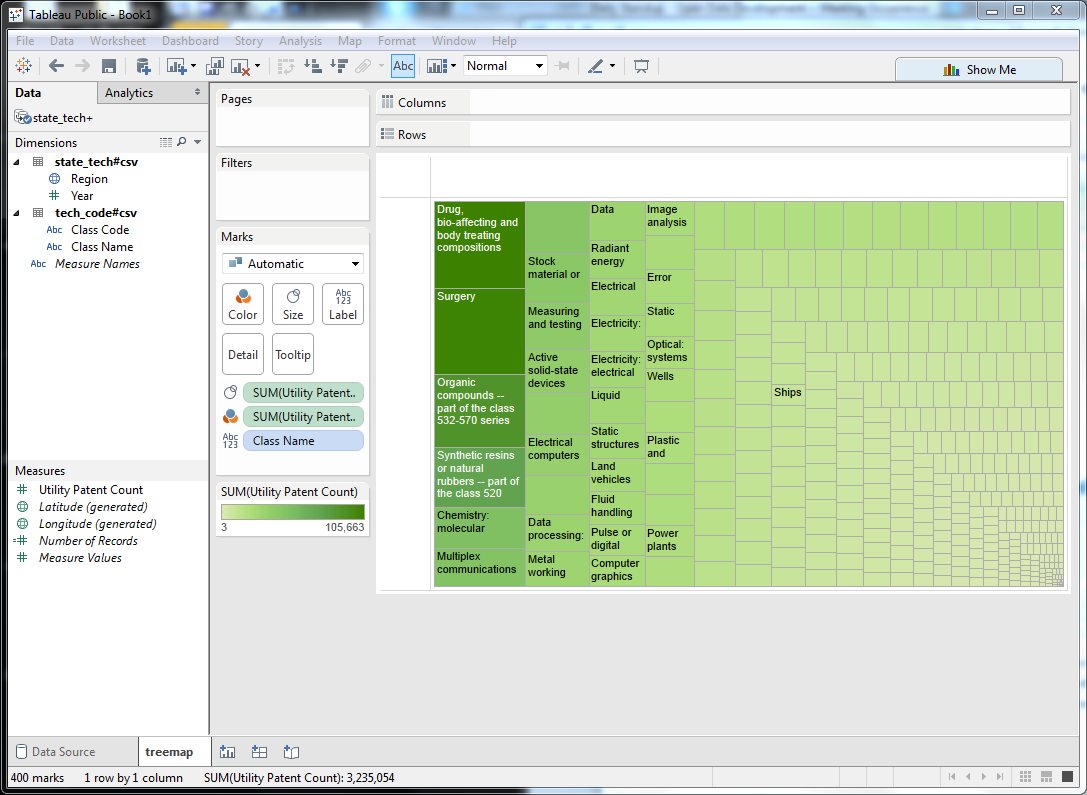
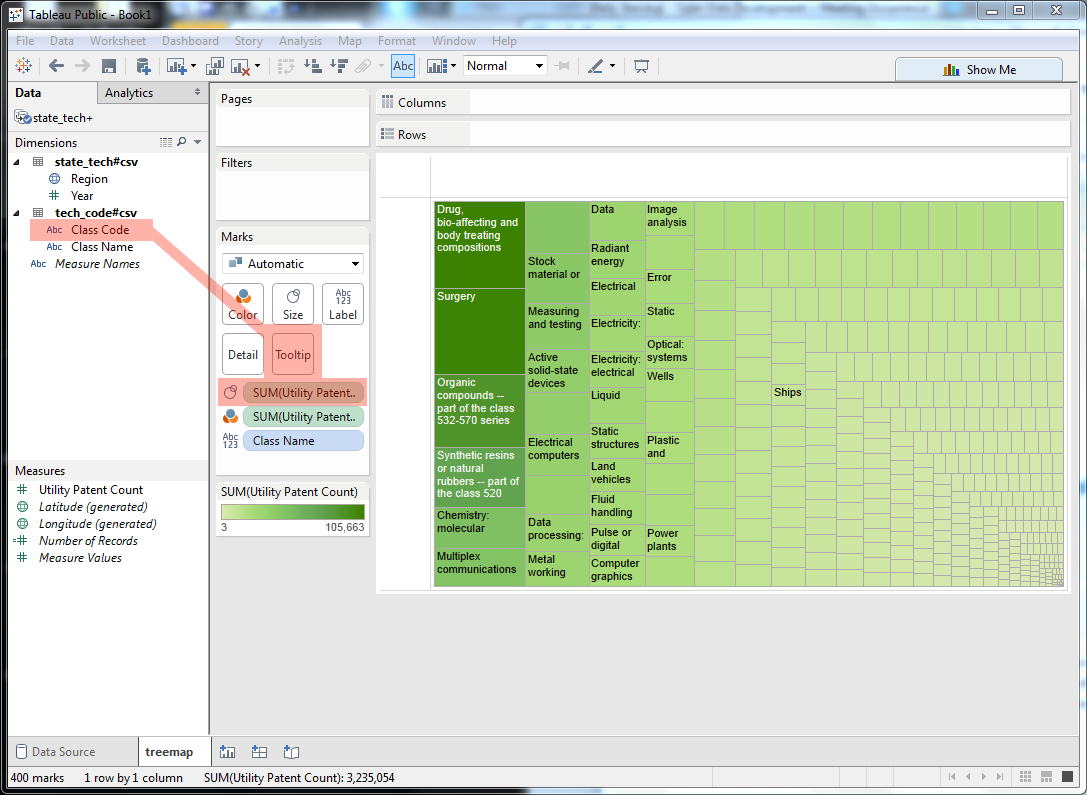
fix big tableau embed

Changed region(s): [[0.0304, 0.2717, 0.3643, 0.5132]]

diff --git a/tutorial_pto.html b/tutorial_pto.html
@@ -143,7 +143,7 @@ div#notebook {
 </style>
 
 <!-- Custom stylesheet, it must be in the same directory as the html file -->
-<!-- <link rel="stylesheet" href="custom.css"> -->
+<link rel="stylesheet" href="custom.css">
 
 <!-- Loading mathjax macro -->
 <!-- Load mathjax -->
@@ -542,6 +542,7 @@ div#notebook {
 <p>Now that we have our data in a clean, normalized format, let's make the visualization! We use <a href="https://public.tableau.com/s/">Tableau Public</a>, an interactive visualization platform that can publish to a public profile. Once it's published, you'll be able to browse and interact with your visualization on your Tableau Public profile web site, as well as embed that visualization in other web pages.
 First, install <a href="https://public.tableau.com/s/">Tableau Public</a>. Tableau requires an email to obtain the app. Once that's done, sign up for a free Tableau Public profile.
 Now let's load up Tableau Public.</p>
+<p>Below we show how to create the embedded visualizations with Tableau Public. We highlight points of interest in <font color='#feb2a8'>red</font> for clarity.</p>
 
 </div>
 </div>
@@ -570,7 +571,7 @@ Now let's load up Tableau Public.</p>
 </div>
 <div class="inner_cell">
 <div class="text_cell_render border-box-sizing rendered_html">
-<p>First, we need to connect to our data. Select ‘Text File’ on the left side of the screen, under ‘Connect.’ In the dialog box that opens, navigate to state_tech.csv file we just created and click Open.</p>
+<p>First, we need to connect to our data. <font color='#feb2a8'>Select ‘Text File’ on the left side of the screen</font>, under ‘Connect.’ In the dialog box that opens, navigate to state_tech.csv file we just created and click Open.</p>
 
 </div>
 </div>
@@ -599,7 +600,7 @@ Now let's load up Tableau Public.</p>
 </div>
 <div class="inner_cell">
 <div class="text_cell_render border-box-sizing rendered_html">
-<p>Here, we see that Tableau has linked to the state_tech.csv  file we generated. Our data sources for this visualization will be our state_tech.csv file joined to our tech_code.csv file (to supply the name for the technology class). On the left, Tableau lists available text files in the current working directory, and on the top, Tableau shows which sources are currently driving the visualization. So first, we need to join our state_tech.csv file onto our tech_code.csv file. Drag the tech_code.csv entry from the left section (under ‘Files’) onto the top section. Tableau’s Join dialog pops up:</p>
+<p>Here, we see that Tableau has linked to the state_tech.csv  file we generated. Our data sources for this visualization will be our state_tech.csv file joined to our tech_code.csv file (to supply the name for the technology class). On the left, Tableau lists available text files in the current working directory, and on the top, Tableau shows which sources are currently driving the visualization. So first, we need to join our state_tech.csv file onto our tech_code.csv file. <font color='#feb2a8'>Drag the tech_code.csv entry from the left section (under ‘Files’) onto the top section</font>. Tableau’s Join dialog pops up:</p>
 
 </div>
 </div>
@@ -619,7 +620,7 @@ Now let's load up Tableau Public.</p>
 </div>
 <div class="inner_cell">
 <div class="text_cell_render border-box-sizing rendered_html">
-<p>In this case, we want a Left Join, using the ‘Tech Class Code’ field in state_tech.csv and the ‘Class Code’ field in tech_code.csv. At first, this won’t work. Tableau supports some extract and load functionality, and will try to infer the data types of the loaded columns. In this case, Tableau infers that the ‘Class Code’ field in tech_code.csv is a text field, whereas the ‘Tech Class Code’ is a numeric field, which prevents our Join. In fact, there’s multiple changes we need to make. First, Tableau supports many Geographical data types, so we’ll want to change Region to Geographic Role -&gt; State/Province. Next, change the data type of ‘Tech Class Code’ to String. (NOTE: To change data types, click the symbol above a given column header (such as ‘Abc’ or ‘#’)). Once the data types are consistent, the join should work. Click the ‘Automatically Update’ button to see the joined data.</p>
+<p>In this case, <font color='#feb2a8'>we want a Left Join</font>, using the ‘Tech Class Code’ field in state_tech.csv and the ‘Class Code’ field in tech_code.csv. At first, this won’t work. Tableau supports some extract and load functionality, and will try to infer the data types of the loaded columns. In this case, Tableau infers that the ‘Class Code’ field in tech_code.csv is a text field, whereas the ‘Tech Class Code’ is a numeric field, which prevents our Join. In fact, there’s multiple changes we need to make. First, Tableau supports many Geographical data types, so <font color='#feb2a8'>we’ll want to change Region to Geographic Role -> State/Province</font>. Next, <font color='#feb2a8'>change the data type of ‘Tech Class Code’ to String</font>. (NOTE: To change data types, click the symbol above a given column header (such as ‘Abc’ or ‘#’)). Once the data types are consistent, the join should work. Click the ‘Automatically Update’ button to see the joined data.</p>
 
 </div>
 </div>
@@ -639,7 +640,7 @@ Now let's load up Tableau Public.</p>
 </div>
 <div class="inner_cell">
 <div class="text_cell_render border-box-sizing rendered_html">
-<p>Looking good! Just one more fix: We currently have two columns for class code, but we only need one. Let’s hide the first one (the second column): mouseover the column header and click the arrow in the upper right corner of the header, then select Hide.</p>
+<p>Looking good! Just one more fix: We currently have two columns for class code, but we only need one. Let’s hide the first one (the second column): <font color='#feb2a8'>mouseover the column header and click the arrow in the upper right corner of the header</font>, then select Hide.</p>
 
 </div>
 </div>
@@ -659,7 +660,7 @@ Now let's load up Tableau Public.</p>
 </div>
 <div class="inner_cell">
 <div class="text_cell_render border-box-sizing rendered_html">
-<p>With that done, let’s start putting together our visualization. Select the orange button at the bottom of the page for Sheet 1. This brings us to the worksheet view for Sheet 1. Tableau uses worksheets to represent a single component of a dashboard, which may include many worksheets. For the purposes of this tutorial, we’re treating ‘dashboard’ as synonymous with ‘visualization.’</p>
+<p>With that done, let’s start putting together our visualization. <font color='#feb2a8'>Select the orange button at the bottom of the page for Sheet 1</font>. This brings us to the worksheet view for Sheet 1. Tableau uses worksheets to represent a single component of a dashboard, which may include many worksheets. For the purposes of this tutorial, we’re treating ‘dashboard’ as synonymous with ‘visualization.’</p>
 
 </div>
 </div>
@@ -679,8 +680,8 @@ Now let's load up Tableau Public.</p>
 </div>
 <div class="inner_cell">
 <div class="text_cell_render border-box-sizing rendered_html">
-<p>First things first, let’s rename ‘Sheet 1’ to ‘treemap.’ Our visualization will consist of this worksheet as well as an additional worksheet for the bar graph. Now let’s take a look at the screen. On the left side, we find our column names (as well as some extra fields in italics, which for the purposes of this tutorial we can ignore) organized into two different categories: Dimensions and Measures. Put simply, a dimension is a field that identifies a piece of data, whereas a measure is a field that tells us, quantitatively, something about that data. So, ‘Region Name’ identifies a row of data as referring to a given region (such as Alabama), whereas ‘Utility Patent Count’ gives us a quantitative value for that row of data. Tableau will attempt to infer which fields are dimensions and which are measures, but sometimes it requires some adjusting. In this case, Tableau correctly identifies the ‘Region’, ‘Year’, ‘Class Code’ and ‘Class Name’ as dimensions, and ‘Utility Patent Count’ as our only measure. That is, ‘Region’, ‘Year’, ‘Class Code’ and ‘Class Name’ identify the scope of a particular row of data (or, in the case of Class Name, provide additional data on another dimension), and ‘Utility Patent Count’ represents a value for that scope.</p>
-<p>Let’s make our treemap. First, drag ‘Class Code’ from the Dimensions section to the ‘Columns’ row at the top of the screen. Then, drag ‘Utility Patent Count’ from the Measures section to the ‘Rows’ row at the top of the screen. This will generate a bar graph, with a column for each class name that has at least one utility patent, and the corresponding bars are aggregated from the Utility Patent Count value for a given class across all states and years.</p>
+<p>First things first, let’s <font color='#feb2a8'>rename ‘Sheet 1’ to ‘treemap’</font>. Our visualization will consist of this worksheet as well as an additional worksheet for the bar graph. Now let’s take a look at the screen. On the left side, we find our column names (as well as some extra fields in italics, which for the purposes of this tutorial we can ignore) organized into two different categories: Dimensions and Measures. Put simply, a dimension is a field that identifies a piece of data, whereas a measure is a field that tells us, quantitatively, something about that data. So, ‘Region Name’ identifies a row of data as referring to a given region (such as Alabama), whereas ‘Utility Patent Count’ gives us a quantitative value for that row of data. Tableau will attempt to infer which fields are dimensions and which are measures, but sometimes it requires some adjusting. In this case, Tableau correctly identifies the ‘Region’, ‘Year’, ‘Class Code’ and ‘Class Name’ as dimensions, and ‘Utility Patent Count’ as our only measure. That is, ‘Region’, ‘Year’, ‘Class Code’ and ‘Class Name’ identify the scope of a particular row of data (or, in the case of Class Name, provide additional data on another dimension), and ‘Utility Patent Count’ represents a value for that scope.</p>
+<p>Let’s make our treemap. First, <font color='#feb2a8'>drag ‘Class Name’ from the Dimensions section to the ‘Columns’ row</font> at the top of the screen. Then, <font color='#feb2a8'>drag ‘Utility Patent Count’ from the Measures section to the ‘Rows’ row</font> at the top of the screen. This will generate a bar graph, with a column for each class name that has at least one utility patent, and the corresponding bars are aggregated from the Utility Patent Count value for a given class across all states and years.</p>
 
 </div>
 </div>
@@ -700,7 +701,7 @@ Now let's load up Tableau Public.</p>
 </div>
 <div class="inner_cell">
 <div class="text_cell_render border-box-sizing rendered_html">
-<p>But we want a treemap, not a bar graph. The answer is the Show Me menu on the right. Tableau supports switching between multiple different styles of graph with a single click, as long as the number of dimensions and measures involved are compatible. In the Show Me menu, click the TreeMap square (fourth from the top, on the left).</p>
+<p>But we want a treemap, not a bar graph. The answer is the Show Me menu on the right. Tableau supports switching between multiple different styles of graph with a single click, as long as the number of dimensions and measures involved are compatible. In the Show Me menu, <font color='#feb2a8'>click the TreeMap square</font> (fourth from the top, on the left).</p>
 
 </div>
 </div>
@@ -721,7 +722,7 @@ Now let's load up Tableau Public.</p>
 <div class="inner_cell">
 <div class="text_cell_render border-box-sizing rendered_html">
 <p>Presto! Tableau moved the Utility Patent Count and Class Name pills from the Columns and Rows rows at the top to the left under Marks. In this case, we could have built the treemap by configuring these items ourselves, but the Show Me menu offers a convenient shortcut.</p>
-<p>One last thing: Tableau creates a default tooltip using the measures and dimensions involved in the worksheet, but we want to show two additional data items: The class code and the ratio of the patents for a technology class for the total. First, drag the Class Code pill onto the Tooltip square (in the Marks section). Mouseover a square in the treemap and observe that the class code was added. Next, right-click the first Utility Patent Counts pill in the Marks section (with two colorless squares to its right) and select Quick Table Calculation -&gt; Percent of Total. The tooltip now includes the class code and percent of total for a given square. To re-order the tooltip rows to match the original visualization, click the Tooltip square in the Marks section and adjust manually.</p>
+<p>One last thing: Tableau creates a default tooltip using the measures and dimensions involved in the worksheet, but we want to show two additional data items: The class code and the ratio of the patents for a technology class for the total. First, <font color='#feb2a8'>drag the Class Code pill onto the Tooltip square</font> (in the Marks section). Mouseover a square in the treemap and observe that the class code was added. Next, <font color='#feb2a8'>right-click the first Utility Patent Counts pill in the Marks section (with two colorless squares to its right) and select Quick Table Calculation -> Percent of Total</font>. The tooltip now includes the class code and percent of total for a given square. To re-order the tooltip rows to match the original visualization, click the Tooltip square in the Marks section and adjust manually.</p>
 
 </div>
 </div>
@@ -741,7 +742,7 @@ Now let's load up Tableau Public.</p>
 </div>
 <div class="inner_cell">
 <div class="text_cell_render border-box-sizing rendered_html">
-<p>Now let’s get started on the line graph. Click the button directly to the right of the treemap tab on the bottom of the page to create a new worksheet and rename it ‘line.’</p>
+<p>Now let’s get started on the line graph. <font color='#feb2a8'>Click the button directly to the right of the treemap tab on the bottom</font> of the page to create a new worksheet and rename it ‘line.’</p>
 
 </div>
 </div>
@@ -761,7 +762,7 @@ Now let's load up Tableau Public.</p>
 </div>
 <div class="inner_cell">
 <div class="text_cell_render border-box-sizing rendered_html">
-<p>For this graph, drag Year to Columns and Utility Patent Count to Rows. Finally, right-click the row header on the right of the graph (labeled ‘Utility Patent Count’), select ‘Add Reference Line’ and press OK. By default, this creates a reference line based on the Average of the Utility Patent Count measure, aggregated by sum for a given year. To have the line appear dashed instead of solid, we can right-click the reference line itself and select ‘Format.’ This opens the Format menu for the reference line on the left side of the screen. Open the ‘Line’ dropdown and select the dashed line. Finally, deselect the reference line by clicking an empty space within the line graph. Your graph should look like this:</p>
+<p>For this graph, <font color='#feb2a8'>drag Year to Columns and Utility Patent Count to Rows</font>. Finally, right-click the row header on the right of the graph (labeled ‘Utility Patent Count’), select ‘Add Reference Line’ and press OK. By default, this creates a reference line based on the Average of the Utility Patent Count measure, aggregated by sum for a given year. To have the line appear dashed instead of solid, we can right-click the reference line itself and select ‘Format.’ This opens the Format menu for the reference line on the left side of the screen. Open the ‘Line’ dropdown and select the dashed line. Finally, deselect the reference line by clicking an empty space within the line graph. Your graph should look like this:</p>
 
 </div>
 </div>
@@ -781,7 +782,7 @@ Now let's load up Tableau Public.</p>
 </div>
 <div class="inner_cell">
 <div class="text_cell_render border-box-sizing rendered_html">
-<p>Now we can start putting these components together into a complete visualization. Click the second button to the right of the line tab at the bottom of the page to create a new dashboard, and rename it ‘main.’</p>
+<p>Now we can start putting these components together into a complete visualization. <font color='#feb2a8'>Click the second button to the right of the line tab</font> at the bottom of the page to create a new dashboard, and rename it ‘main.’</p>
 
 </div>
 </div>
@@ -801,7 +802,7 @@ Now let's load up Tableau Public.</p>
 </div>
 <div class="inner_cell">
 <div class="text_cell_render border-box-sizing rendered_html">
-<p>On the top left, we see a Dashboard section, with a row for each worksheet we created. In the middle is the dashboard pane. Drag the treemap row onto the pane, then drag the line row below the treemap sheet. As you drag a component onto the pane, a gray box will show you how it will be oriented. You want the gray box to be below the treemap component, not to either side. Your dashboard should look like this:</p>
+<p>On the top left, we see a Dashboard section, with a row for each worksheet we created. In the middle is the dashboard pane. <font color='#feb2a8'>Drag the treemap row onto the pane, then drag the line row below the treemap sheet</font>. As you drag a component onto the pane, a gray box will show you how it will be oriented. You want the gray box to be below the treemap component, not to either side. Your dashboard should look like this:</p>
 
 </div>
 </div>
@@ -821,7 +822,7 @@ Now let's load up Tableau Public.</p>
 </div>
 <div class="inner_cell">
 <div class="text_cell_render border-box-sizing rendered_html">
-<p>Looks good, but we’re not done yet! We want to allow the user to filter based both on State and Year, but we’re currently showing aggregations for all values, regardless of State and Year. To accomplish this, let’s return to the treemap worksheet. First, let’s create the Year filter. Right-click the Year row in the Dimensions section and select ‘Show Filter.’ Tableau adds a filter control that defaults to the full range of years. If we wanted our dashboard to default to a particular range of years on load, or to exclude certain values in the final product, we can set these bounds to anything we like. Let’s leave it at the default.</p>
+<p>Looks good, but we’re not done yet! We want to allow the user to filter based both on State and Year, but we’re currently showing aggregations for all values, regardless of State and Year. To accomplish this, let’s <font color='#feb2a8'>return to the treemap worksheet</font>. First, let’s create the Year filter. <font color='#feb2a8'>Right-click the Year row in the Dimensions section and select ‘Show Filter’</font>. Tableau adds a filter control that defaults to the full range of years. If we wanted our dashboard to default to a particular range of years on load, or to exclude certain values in the final product, we can set these bounds to anything we like. Let’s leave it at the default.</p>
 
 </div>
 </div>
@@ -841,7 +842,7 @@ Now let's load up Tableau Public.</p>
 </div>
 <div class="inner_cell">
 <div class="text_cell_render border-box-sizing rendered_html">
-<p>Right now, this filter only applies to the treemap worksheet. To apply it to the line graph as well, click the arrow in the upper-right section of the new Year filter control and select Apply to Worksheets -&gt; All Using This Data Source. If you return to the dashboard, you’ll find that the filter doesn’t show up yet. The simplest way to refresh the dashboard is to drag the treemap component off the pane (removing it from the dashboard), then re-add it to the top of the dashboard. The Year Filter will then pop up. Drag it around a bit and confirm that it affects both the treemap and the line graph.</p>
+<p>Right now, this filter only applies to the treemap worksheet. To apply it to the line graph as well, <font color='#feb2a8'>click the arrow in the upper-right section of the new Year filter control and select Apply to Worksheets -> All Using This Data Source</font>. If you return to the dashboard, you’ll find that the filter doesn’t show up yet. The simplest way to refresh the dashboard is to drag the treemap component off the pane (removing it from the dashboard), then re-add it to the top of the dashboard. The Year Filter will then pop up. Drag it around a bit and confirm that it affects both the treemap and the line graph.</p>
 
 </div>
 </div>
@@ -861,7 +862,7 @@ Now let's load up Tableau Public.</p>
 </div>
 <div class="inner_cell">
 <div class="text_cell_render border-box-sizing rendered_html">
-<p>Now for the Region filter. Return to the treemap worksheet, right-click on Region and select Show Filter. By default, Tableau creates a multi-checkbox filter. Let’s adjust the Region filter component: click the arrow in the upper-right of the Region filter and select ‘Single Value Dropdown.’ Now we can select a region and see the technology class breakdown for that particular region, or select the ‘(All)’ value in the dropdown to clear out the Region filter. For now, let’s set the default to ‘(All).’ And, as before, we need to tell Tableau that we want this filter to apply to other worksheets using the same data source: click the arrow in the upper right of the Region filter and select Apply to Worksheets -&gt; All Using This Data Source.</p>
+<p>Now for the Region filter. Return to the treemap worksheet, <font color='#feb2a8'>right-click on Region and select Show Filter</font>. By default, Tableau creates a multi-checkbox filter. Let’s adjust the Region filter component: <font color='#feb2a8'>click the arrow in the upper-right of the Region filter and select ‘Single Value Dropdown’</font>. Now we can select a region and see the technology class breakdown for that particular region, or select the ‘(All)’ value in the dropdown to clear out the Region filter. For now, let’s set the default to ‘(All).’ And, as before, we need to tell Tableau that we want this filter to apply to other worksheets using the same data source: click the arrow in the upper right of the Region filter and select Apply to Worksheets -&gt; All Using This Data Source.</p>
 
 </div>
 </div>
@@ -881,7 +882,7 @@ Now let's load up Tableau Public.</p>
 </div>
 <div class="inner_cell">
 <div class="text_cell_render border-box-sizing rendered_html">
-<p>Now let’s go back to the main dashboard and refresh the treemap component by dragging it off the dashboard pane then dragging it back on. Drag the year slider around and set the Region filter to other values to confirm that it all works.</p>
+<p>Now let’s go back to the main dashboard and refresh the treemap component by dragging it off the dashboard pane then dragging it back on. <font color='#feb2a8'>Drag the year slider around and set the Region filter to other values to confirm that it all works</font>.</p>
 
 </div>
 </div>

diff --git a/index.html b/index.html
@@ -9,7 +9,6 @@
         <script src="https://code.jquery.com/jquery-2.1.1.min.js"></script>
         <script src="js/parallax.js"></script>
 
-
         <meta charset="utf-8">
         <meta http-equiv="Content-Type" content="text/html; charset=utf-8" />
         <meta name="generator" content="pandoc"/>
@@ -109,6 +108,9 @@
               max-width:100%;
               height: auto;
             }
+            .centered{
+                margin: 0 auto;
+            }
         </style>
     </head>
 
@@ -191,6 +193,7 @@
                     <ul>
                         <li>Scott Beliveau</li>
                         <li>Thomas Beach</li>
+                        <li>Christopher Berman</li>
                     </ul>
                     <strong>Edited by the Commerce Data Service</strong><br>
                     <ul>
@@ -200,38 +203,26 @@
                 </p>
             </div>
             <div class="col-lg-7">
-                <p style="font-family:Helvetica;"><span style="font-size:150%;color:lightgrey;">
-                    <strong>Foreword:</strong>
-                </span>
+                <p style="font-family:Helvetica;">
+                <span style="font-size:150%;color:lightgrey;"><strong>Foreword:</strong><br></span>
                 <span style='color:lightgrey'>
-                <br>Lorem ipsum dolor sit amet, consectetur adipiscing elit, sed do eiusmod tempor incididunt ut labore et dolore magna aliqua. Ut enim ad minim veniam, quis nostrud exercitation ullamco laboris nisi ut aliquip ex ea commodo consequat. Duis aute irure dolor in reprehenderit in voluptate velit esse cillum dolore eu fugiat nulla pariatur. Excepteur sint occaecat cupidatat non proident, sunt in culpa qui officia deserunt mollit anim id est laborum.
-                <br>
+                Lorem ipsum dolor sit amet, consectetur adipiscing elit, sed do eiusmod tempor incididunt ut labore et dolore magna aliqua. Ut enim ad minim veniam, quis nostrud exercitation ullamco laboris nisi ut aliquip ex ea commodo consequat. Duis aute irure dolor in reprehenderit in voluptate velit esse cillum dolore eu fugiat nulla pariatur. Excepteur sint occaecat cupidatat non proident, sunt in culpa qui officia deserunt mollit anim id est laborum.<br>
                 At vero eos et accusamus et iusto odio dignissimos ducimus qui blanditiis praesentium voluptatum deleniti atque corrupti quos dolores et quas molestias excepturi sint occaecati cupiditate non provident, similique sunt in culpa qui officia deserunt mollitia animi, id est laborum et dolorum fuga. Et harum quidem rerum facilis est et expedita distinctio. Nam libero tempore, cum soluta nobis est eligendi optio cumque nihil impedit quo minus id quod maxime placeat facere possimus, omnis voluptas assumenda est, omnis dolor repellendus. Temporibus autem quibusdam et aut officiis debitis aut rerum necessitatibus saepe eveniet ut et voluptates repudiandae sint et molestiae non recusandae. Itaque earum rerum hic tenetur a sapiente delectus, ut aut reiciendis voluptatibus maiores alias consequatur aut perferendis doloribus asperiores repellat.
-                </p>
                 </span>
+                </p>
             </div>
         </div>
     </div>
 
     <div class="container-fluid main-container">
-        <p style="font-family:Helvetica;">
-            <p style="font-family:Helvetica;"><span style="font-size:150%;color:#004C97;"><strong>What does innovation look like in a given state?</strong></span>
-            <br> Once you've lived in a state for a few years, you may already have some sense of what the innovation in that state looks like. For California, it's technology. For Alaska, you might (correctly) guess it has to do with drilling on the North Slope. But if you live in a state that isn't so dominated by a major corporation or industry, it might be much less obvious what kind of innovation is happening around you. Among the data the <a href='http://www.uspto.gov/'>United States Patent and Trademark Office (USPTO)</a> provides, the <a href='http://www.uspto.gov/learning-and-resources/electronic-data-products/patent-technology-monitoring-team-ptmt-patent'>Patent Trademark Monitoring Team (PTMT)</a> produces aggregations of the underlying patent data, along many different dimensions and partitions. These aggregations answer all kinds of questions just like this, as well as offer opportunities for deeper analysis using data visualizations.
+            <p style="font-family:Helvetica;">
+            <span style="font-size:150%;color:#004C97;"><strong>What does innovation look like in a given state?</strong><br></span>
+            Once you've lived in a state for a few years, you may already have some sense of what the innovation in that state looks like. For California, it's technology. For Alaska, you might (correctly) guess it has to do with drilling on the North Slope. But if you live in a state that isn't so dominated by a major corporation or industry, it might be much less obvious what kind of innovation is happening around you. Among the data the <a href='http://www.uspto.gov/'>United States Patent and Trademark Office (USPTO)</a> provides, the <a href='http://www.uspto.gov/learning-and-resources/electronic-data-products/patent-technology-monitoring-team-ptmt-patent'>Patent Trademark Monitoring Team (PTMT)</a> produces aggregations of the underlying patent data, along many different dimensions and partitions. These aggregations answer all kinds of questions just like this, as well as offer opportunities for deeper analysis using data visualizations.
             </p>
-            <br><span style="font-size:150%;color:#004C97;">Technology classes by state</span><br>
+            <p style="font-family: Helvetica">
+            <span style="font-size:150%;color:#004C97;"><strong>Technology classes by state</strong><br></span>
             This visualization serves as a detail view of the technology classes that make up a state's utility patents. The treemap above organizes all of a state's technology classes for a given timeframe, with a rectangle's size representing its share of the patent total, and the line graph below depicts the per year values for a given technology class if a rectangle is hovered over, and all classes for the state otherwise. We can pick which state we're looking at using the dropdownbox on the right. 
-            <br>
-            Let’s take a look at Idaho. As some background, Idaho is a big patent producer, driven primarily by Micron Technology, Inc. So, we see that Idaho's largest technology classes for 1995 - 2014 are:
-            <br><br>
-            <ul>
-                <li>'Semiconductor Device Manufacturing: Process' (with 21.99%),</li>
-                <li>'Active Solid-State Devices (e.g., Transistors, Solid-State Diodes)' (with 13.95%),</li>
-                <li>and 'Static Information Storage and Retrieval' (with 9.99%)</li>
-            </ul>
-            <br>
-            Unsurprisingly, given that the large share of Idaho's patent production is through Micron (a technology company), the largest technology classes involve computers. Vermont has a similar breakdown of technology classes, by way of IBM.
-            <br><br>
-        </p>
+            </p>
     </div>
 </div>
 
@@ -240,34 +231,42 @@
         <script type='text/javascript' src='http://public.tableau.com/javascripts/api/viz_v1.js'></script><div class='tableauPlaceholder' style='width: 1004px; height: 869px;'><noscript><a href='#'><img alt='main ' src='http:&#47;&#47;public.tableau.com&#47;static&#47;images&#47;st&#47;state-tech-class-treemap&#47;main&#47;1_rss.png' style='border: none' /></a></noscript><object class='tableauViz' width='1004' height='869' style='display:none;'><param name='host_url' value='http%3A%2F%2Fpublic.tableau.com%2F' /> <param name='site_root' value='' /><param name='name' value='state-tech-class-treemap&#47;main' /><param name='tabs' value='no' /><param name='toolbar' value='yes' /><param name='static_image' value='http:&#47;&#47;public.tableau.com&#47;static&#47;images&#47;st&#47;state-tech-class-treemap&#47;main&#47;1.png' /> <param name='animate_transition' value='yes' /><param name='display_static_image' value='yes' /><param name='display_spinner' value='yes' /><param name='display_overlay' value='yes' /><param name='display_count' value='yes' /><param name='showVizHome' value='no' /><param name='showTabs' value='y' /><param name='bootstrapWhenNotified' value='true' /></object></div>
     </div>
 </div>
+<br>
 
 <div class="container-fluid main-container" style="background-color:white;">
         <p style="font-family:Helvetica;">
-            <br><span style="font-size:150%;color:#004C97;">Case example: Idaho</span><br>
+            <span style="font-size:150%;color:#004C97;"><strong>Case example: Idaho</strong><br></span>
             Let’s take a look at Idaho. As some background, Idaho is a big patent producer, driven primarily by Micron Technology, Inc. So, we see that Idaho's largest technology classes by far are:
             <ul>
                 <li>'Semiconductor Device Manufacturing: Process' (technology class 438, with 21.99% of the total patent share from 1995-2014),</li>
                 <li>'Active Solid-State Devices (e.g., Transistors, Solid-State Diodes)' (technology class 257, with 13.95% from 1995-2014)</li>
                 <li>'Static Information Storage and Retrieval' (technology class 365, with 9.99% from 1995-2014</li>
             </ul>
+        </p>
+        <p style="font-family:Helvetica;">
             Unsurprisingly, given that the large share of Idaho's patent production is through a single company, Micron, the largest technology classes involve computers. Vermont has a similar breakdown of technology classes due to IBM.
-            <br>
             Other states are similarly dominated by a particular technology class (or kind of technology classes). Michigan's largest technology class since 2008, for example, is 'DP: Vehicles, Navigation, and Relative Location (Data Processing)' (technology class 701). Given Michigan's traditional status as the locus of the USA's auto-making industry, looking at the last 20 years (1995-2014), we can see that the second largest technology class is technically Internal-Combustion Engines (technology class 123), but this class stays relatively constant year-over-year, while technology class 701 increases significantly, starting in 2008, corresponding with the automotive industry bailout. This may point to a new, deliberate R&D focus in the industry following the injection of funds. Gas prices drove many consumers to purchase more fuel-efficient vehicles, such as Japanese-made models. Perhaps the US automotive industry decided to differentiate their competitive offerings using services based on GPS, rather than trying to play catch-up with fuel efficiency.
-            <br>
+            <br><br>
             These detail views not only give us a good sense of what industry in a particular state looks like (Oklahoma's largest technology class, for example, is 'Wells (shafts or deep borings in the earth, e.g., for oil and gas)'), but can also help us understand trends within an industry if that industry is very specifically associated with a particular state. The automotive industry in Michigan is perhaps the clearest example, but perhaps we could do a similar (though necessarily more subtle) analysis of Silicon Valley. California is not dominated by a single technology class, but many of their top technology classes are computer-oriented. Which technology classes are rising, and which are falling?
         </p>
 </div>
 
-<div style="background-color:#004C97;">
-    <div class="container-fluid main-container">
-        <script type='text/javascript' src='http://public.tableau.com/javascripts/api/viz_v1.js'></script><div class='tableauPlaceholder' style='width: 80%; height: 80%;'><noscript><a href='#'><img alt=' ' src='http:&#47;&#47;public.tableau.com&#47;static&#47;images&#47;NA&#47;NAICSIndustryClassificationsbyCountryState2visuals&#47;NAICSClassificationbyCountryView&#47;1_rss.png' style='border: none' /></a></noscript><object class='tableauViz' width='100%' height='100%' style='display:none;'><param name='host_url' value='http%3A%2F%2Fpublic.tableau.com%2F' /> <param name='site_root' value='' /><param name='name' value='NAICSIndustryClassificationsbyCountryState2visuals&#47;NAICSClassificationbyCountryView' /><param name='tabs' value='yes' /><param name='toolbar' value='yes' /><param name='static_image' value='http:&#47;&#47;public.tableau.com&#47;static&#47;images&#47;NA&#47;NAICSIndustryClassificationsbyCountryState2visuals&#47;NAICSClassificationbyCountryView&#47;1.png' /> <param name='animate_transition' value='yes' /><param name='display_static_image' value='yes' /><param name='display_spinner' value='yes' /><param name='display_overlay' value='yes' /><param name='display_count' value='yes' /><param name='showVizHome' value='no' /><param name='showTabs' value='y' /><param name='bootstrapWhenNotified' value='true' /></object></div>    </div>
+<br>
+
+<div style="background-color:#004C97; height: 1600px;">
+    <div class="col-md-10 col-md-offset-1" style="background-color:#004C97;">
+        <script type='text/javascript' src='http://public.tableau.com/javascripts/api/viz_v1.js'></script>
+        <div class='tableauPlaceholder' style='width: 100%; height: 1595px; background-color:#004C97;'><noscript><a href='#'>
+        <img alt=' ' src='http:&#47;&#47;public.tableau.com&#47;static&#47;images&#47;NA&#47;NAICSIndustryClassificationsbyCountryState2visuals&#47;NAICSClassificationbyCountryView&#47;1_rss.png' style='border: none' /></a></noscript>
+        <object class='tableauViz' width='100%' height='1595' style='display:none;'>
+        <param name='host_url' value='http%3A%2F%2Fpublic.tableau.com%2F' /> <param name='site_root' value='' /><param name='name' value='NAICSIndustryClassificationsbyCountryState2visuals&#47;NAICSClassificationbyCountryView' /><param name='tabs' value='yes' /><param name='toolbar' value='yes' /><param name='static_image' value='http:&#47;&#47;public.tableau.com&#47;static&#47;images&#47;NA&#47;NAICSIndustryClassificationsbyCountryState2visuals&#47;NAICSClassificationbyCountryView&#47;1.png' /> <param name='animate_transition' value='yes' /><param name='display_static_image' value='yes' /><param name='display_spinner' value='yes' /><param name='display_overlay' value='yes' /><param name='display_count' value='yes' /><param name='showVizHome' value='no' /><param name='showTabs' value='y' /><param name='bootstrapWhenNotified' value='true' /></object></div>
+    </div>
 </div>
 
 <div class="container-fluid main-container" >
-<!-- <p><a href="./nvd_network.html">Open in separate window</a></p> -->
 <br>
-    <p style="font-family:Helvetica;"><span style="font-size:150%;color:#004C97;">Conclusion</span>
-        <br>Lorem ipsum dolor sit amet, consectetur adipiscing elit, sed do eiusmod tempor incididunt ut labore et dolore magna aliqua. Ut enim ad minim veniam, quis nostrud exercitation ullamco laboris nisi ut aliquip ex ea commodo consequat. Duis aute irure dolor in reprehenderit in voluptate velit esse cillum dolore eu fugiat nulla pariatur. Excepteur sint occaecat cupidatat non proident, sunt in culpa qui officia deserunt mollit anim id est laborum.
+    <p style="font-family:Helvetica;"><span style="font-size:150%;color:#004C97;"><strong>Conclusion</strong><br></span>
+        Lorem ipsum dolor sit amet, consectetur adipiscing elit, sed do eiusmod tempor incididunt ut labore et dolore magna aliqua. Ut enim ad minim veniam, quis nostrud exercitation ullamco laboris nisi ut aliquip ex ea commodo consequat. Duis aute irure dolor in reprehenderit in voluptate velit esse cillum dolore eu fugiat nulla pariatur. Excepteur sint occaecat cupidatat non proident, sunt in culpa qui officia deserunt mollit anim id est laborum.
         <br>
         At vero eos et accusamus et iusto odio dignissimos ducimus qui blanditiis praesentium voluptatum deleniti atque corrupti quos dolores et quas molestias excepturi sint occaecati cupiditate non provident, similique sunt in culpa qui officia deserunt mollitia animi, id est laborum et dolorum fuga. Et harum quidem rerum facilis est et expedita distinctio. Nam libero tempore, cum soluta nobis est eligendi optio cumque nihil impedit quo minus id quod maxime placeat facere possimus, omnis voluptas assumenda est, omnis dolor repellendus. Temporibus autem quibusdam et aut officiis debitis aut rerum necessitatibus saepe eveniet ut et voluptates repudiandae sint et molestiae non recusandae. Itaque earum rerum hic tenetur a sapiente delectus, ut aut reiciendis voluptatibus maiores alias consequatur aut perferendis doloribus asperiores repellat.
     </p>
@@ -281,11 +280,9 @@
 <div id='code' style="color:black;font-family:Helvetica;" >
     <div class="container-fluid main-container">
     <p style="font-family:Helvetica"><span style="font-size:200%;color:#004C97;"><br><strong>Getting Started</strong></span>
-        <br>In this tutorial, we'll go over how to collate the required data from the PTMT web site using Python web scraping, then walk through creating the visualization in Tableau Public.
-        <br>
-        Follow along in the iPython Notebook below or check out the code files at the Github repo (<a href="https://github.com/CommerceDataService/tutorial_pto">https://github.com/CommerceDataService/tutorial_pto</a>). 
+        <br>In this tutorial, we'll go over how to collate the required data from the PTMT web site using Python web scraping, then walk through creating the visualization in Tableau Public. Follow along in the Jupyter Notebook below or check out the code files at <a href="https://github.com/CommerceDataService/tutorial_pto">Github</a>. 
         <br><br>
-        <a href="./tutorial_pto.ipynb">Jupyter Notebook Version</a>
+        <a href="./tutorial_pto.ipynb">Download Jupyter Notebook Version</a>
     </p>
     </div>
 </div>

diff --git a/css/bootstrap.css b/css/bootstrap.css
@@ -6,7 +6,7 @@
 
 /*! normalize.css v3.0.2 | MIT License | git.io/normalize */
 html {
-  font-family: sans-serif;
+  font-family: helvetica, sans-serif;
   -webkit-text-size-adjust: 100%;
       -ms-text-size-adjust: 100%;
 }
@@ -1077,7 +1077,7 @@ html {
   -webkit-tap-highlight-color: rgba(0, 0, 0, 0);
 }
 body {
-  font-family: "SourceSansProRegular", "Helvetica Neue", Helvetica, Arial, sans-serif;
+  font-family: Helvetica, "SourceSansProRegular", "Helvetica Neue", Arial, sans-serif;
   font-size: 14px;
   line-height: 1.42857143;
   color: #333;
